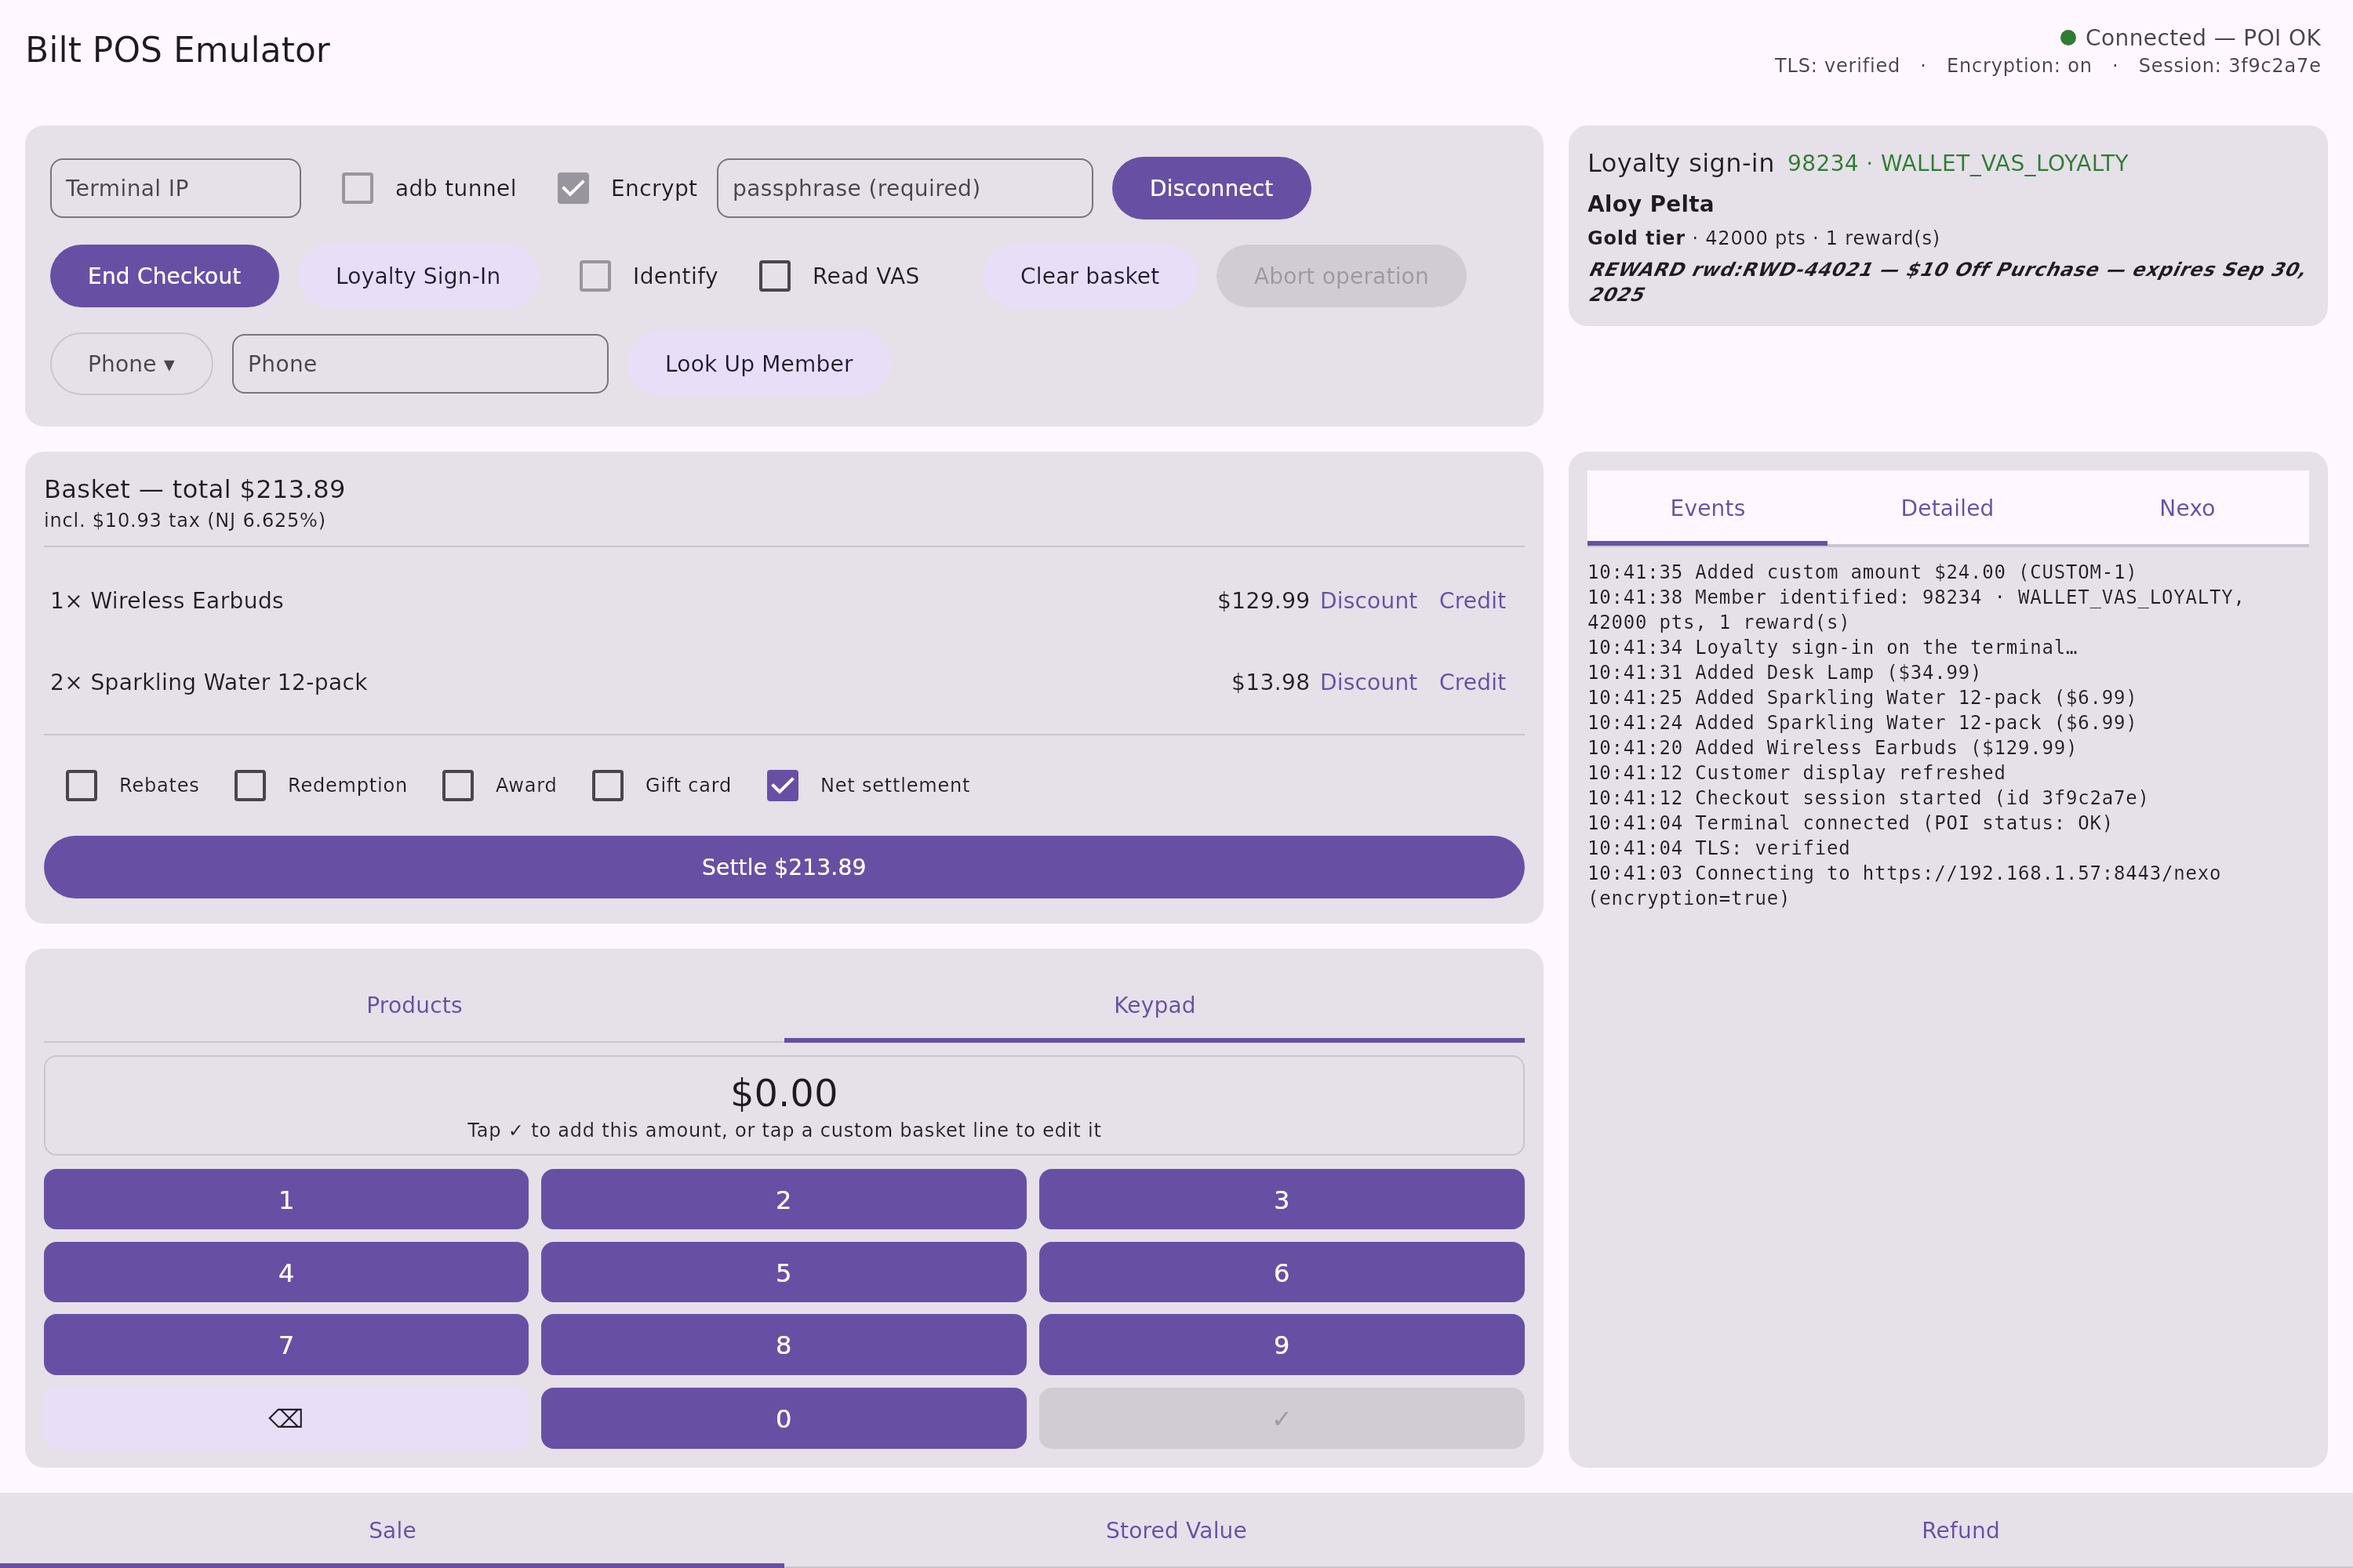
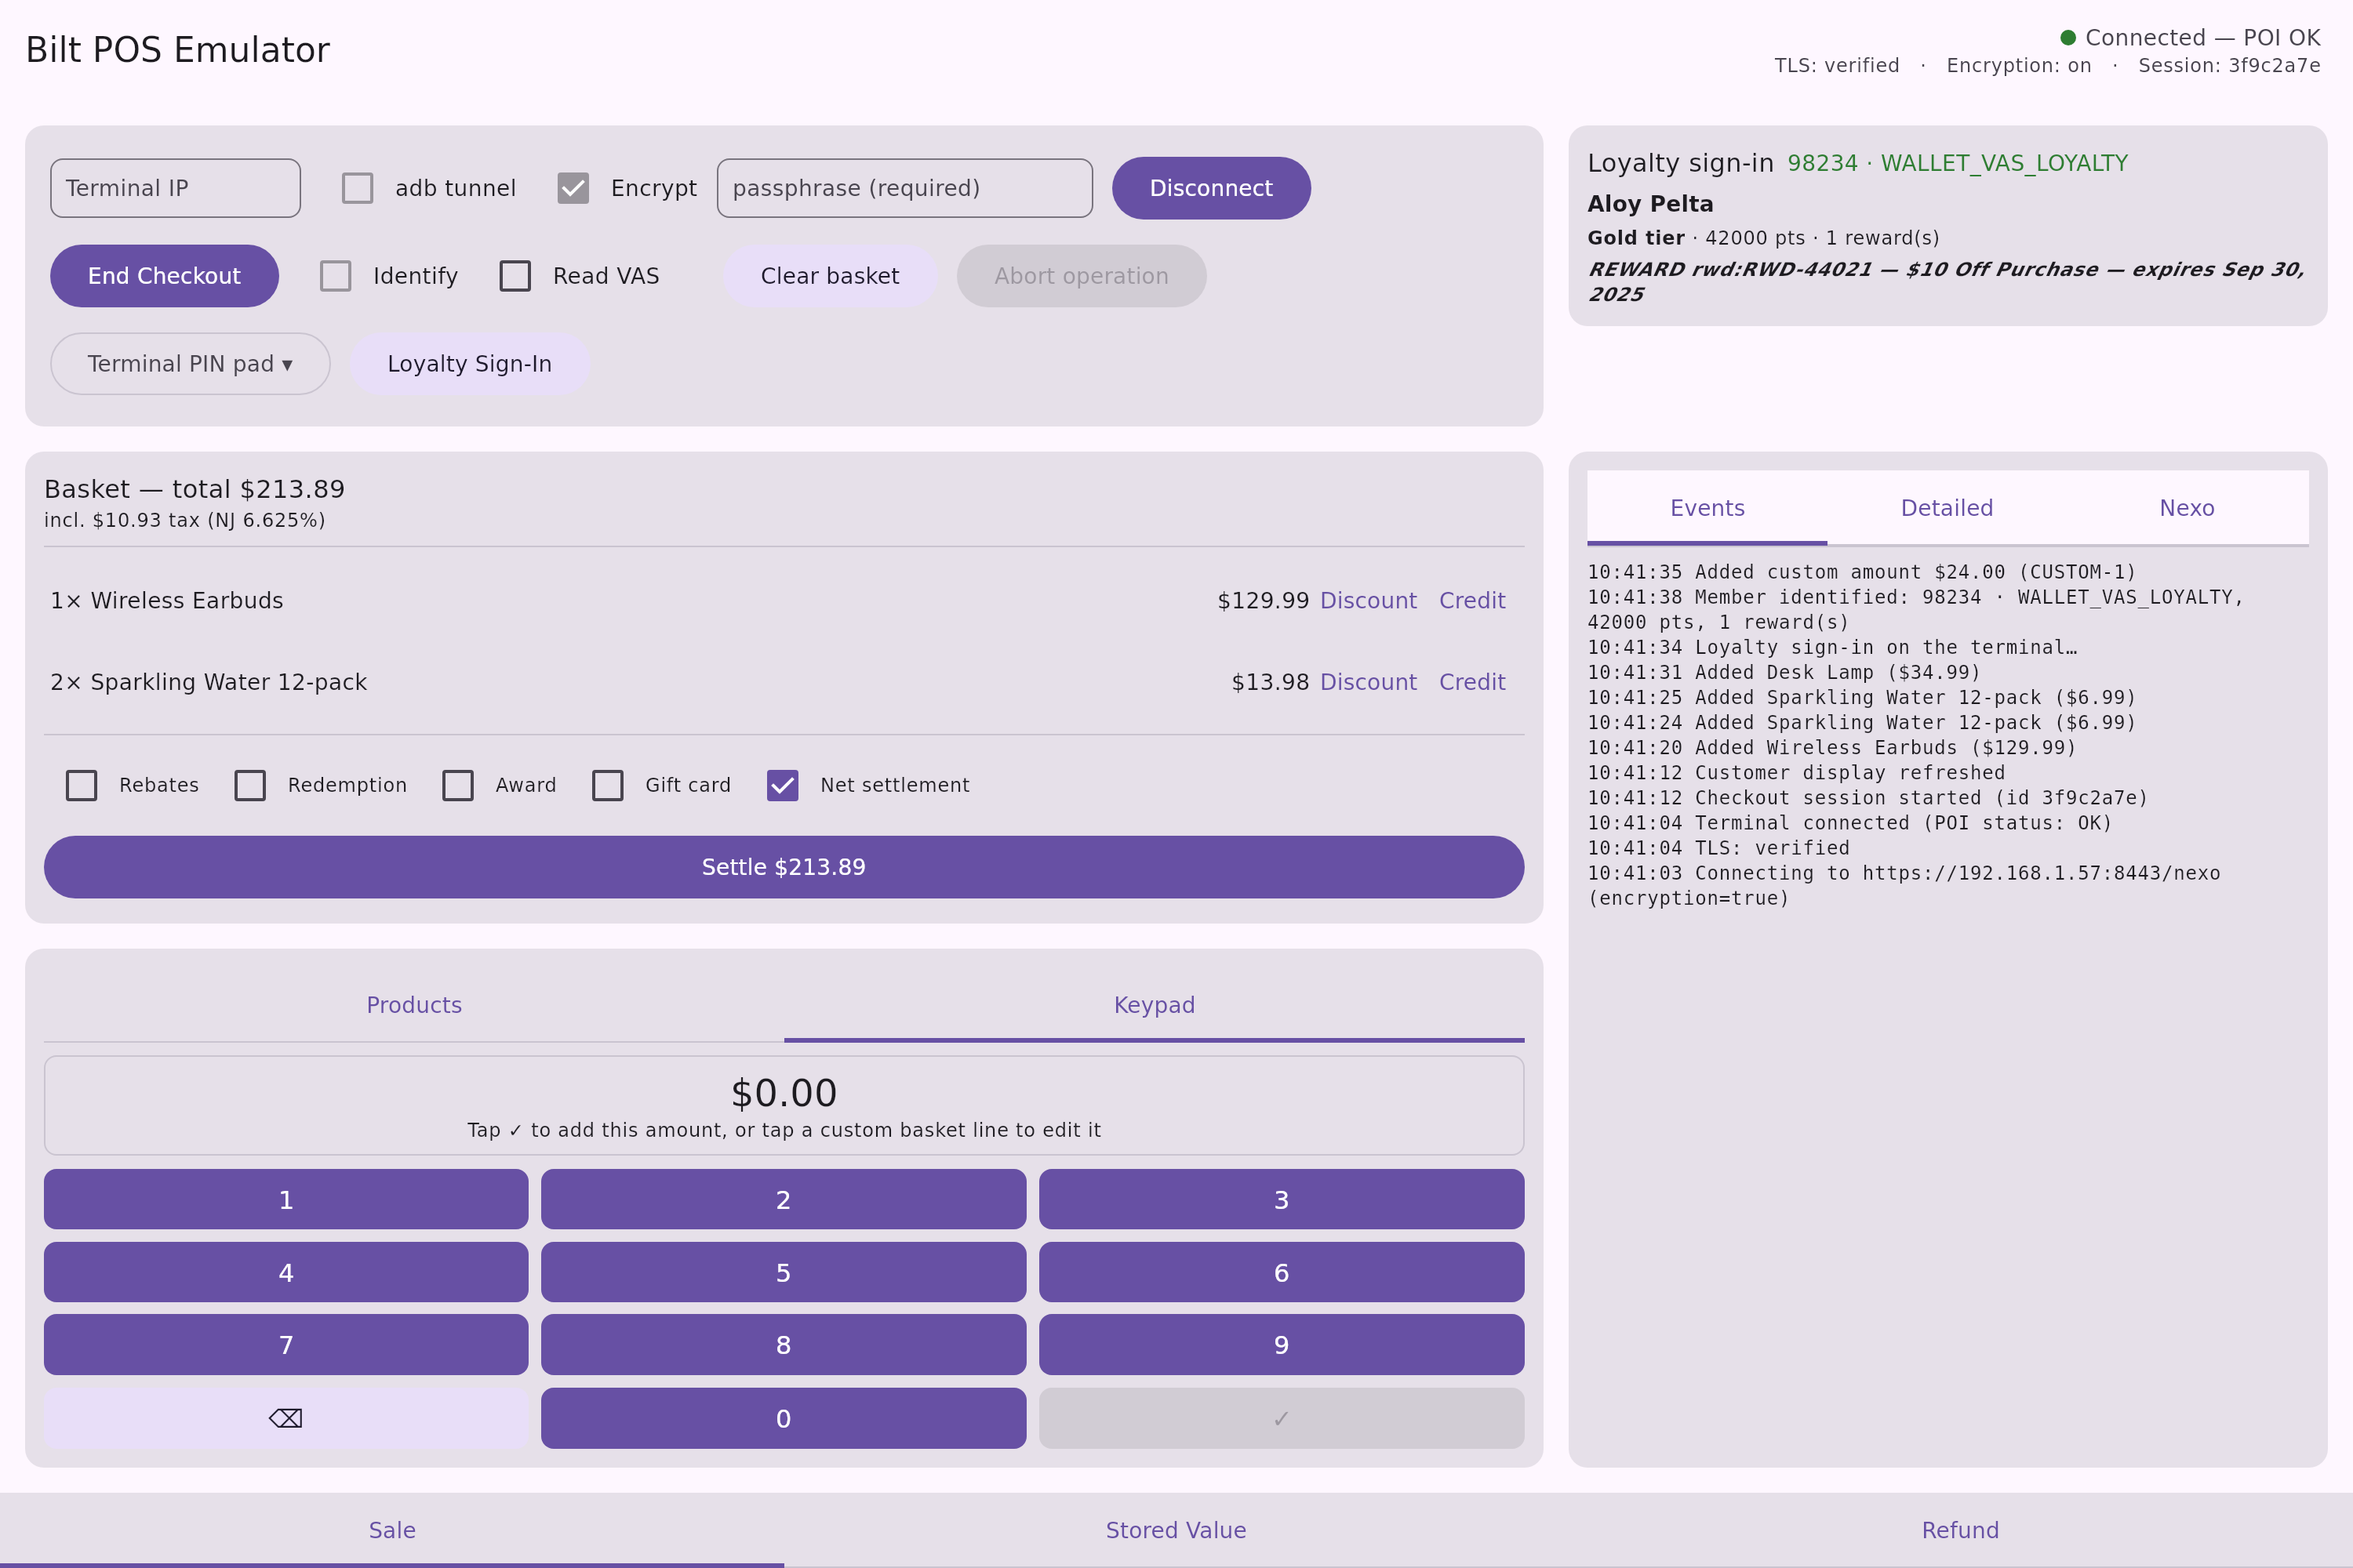
Emulator: merge Loyalty Sign-In and member lookup into one control

diff --git a/emulator/shared/src/commonMain/kotlin/com/bilt/pos/emulator/EmulatorApp.kt b/emulator/shared/src/commonMain/kotlin/com/bilt/pos/emulator/EmulatorApp.kt
@@ -116,6 +116,11 @@ internal enum class SaleTabPane(val label: String) {
  */
 private const val MAX_KEYPAD_MINOR = 99_999_999L
 
+/** The saved identify-picker name for the terminal's own sign-in prompt. */
+private const val PIN_PAD_SIGN_IN = "PIN_PAD"
+
+private const val PIN_PAD_LABEL = "Terminal PIN pad"
+
 /**
  * The keypad's entry state: the amount typed so far and, once the operator taps a custom line in
  * the basket, the SKU that amount live-edits.
@@ -766,9 +771,10 @@ private fun ConnectionPanel(
     var passphrase by remember { mutableStateOf("") }
     var identifyOnStart by rememberSaveable { mutableStateOf(false) }
     var readVas by rememberSaveable { mutableStateOf(false) }
-    // by name: an enum is not saveable on every platform
-    var lookupKindName by rememberSaveable { mutableStateOf(MemberLookupKind.PHONE.name) }
-    val lookupKind = MemberLookupKind.valueOf(lookupKindName)
+    // by name: an enum is not saveable on every platform; PIN_PAD_SIGN_IN is the
+    // terminal's own prompt, which is not a register-supplied MemberLookupKind
+    var lookupKindName by rememberSaveable { mutableStateOf(PIN_PAD_SIGN_IN) }
+    val lookupKind = MemberLookupKind.entries.firstOrNull { it.name == lookupKindName }
     var lookupValue by rememberSaveable { mutableStateOf("") }
     var lookupMenuOpen by remember { mutableStateOf(false) }
 
@@ -885,33 +891,27 @@ private fun ConnectionPanel(
                         Text(if (sessionActive) "End Checkout" else "Start Checkout")
                     }
                 }
-                // The same prompt the Identify toggle runs at Start
-                // Checkout, on demand: a customer who declined or mistyped
-                // can sign in again without restarting the checkout
-                val signInButton: @Composable (Modifier) -> Unit = { modifier ->
-                    Button(
-                        onClick = { controller.identifyMember(readVas) },
-                        enabled = state.canOperate,
-                        colors = ButtonDefaults.filledTonalButtonColors(),
-                        modifier = modifier,
-                    ) {
-                        Text(if (state.identifyInProgress) "Signing in…" else "Loyalty Sign-In")
-                    }
-                }
-                // The register supplies the identity instead of the shopper
-                // keying it on the terminal
+                // Who supplies the member: the shopper on the terminal's PIN
+                // pad, or the register (a handle to look up, or a resolved id)
                 val lookupKindPicker: @Composable () -> Unit = {
                     Box {
                         OutlinedButton(
                             onClick = { lookupMenuOpen = true },
                             enabled = state.canOperate,
                         ) {
-                            Text("${lookupKind.label} ▾")
+                            Text("${lookupKind?.label ?: PIN_PAD_LABEL} ▾")
                         }
                         DropdownMenu(
                             expanded = lookupMenuOpen,
                             onDismissRequest = { lookupMenuOpen = false },
                         ) {
+                            DropdownMenuItem(
+                                text = { Text(PIN_PAD_LABEL) },
+                                onClick = {
+                                    lookupKindName = PIN_PAD_SIGN_IN
+                                    lookupMenuOpen = false
+                                },
+                            )
                             MemberLookupKind.entries.forEach { kind ->
                                 DropdownMenuItem(
                                     text = { Text(kind.label) },
@@ -924,27 +924,40 @@ private fun ConnectionPanel(
                         }
                     }
                 }
+                // the PIN pad prompt takes no value: the shopper keys it
                 val lookupField: @Composable (Modifier) -> Unit = { modifier ->
-                    CompactTextField(
-                        value = lookupValue,
-                        onValueChange = { lookupValue = it },
-                        placeholder = lookupKind.label,
-                        enabled = state.canOperate,
-                        modifier = modifier,
-                    )
+                    if (lookupKind != null) {
+                        CompactTextField(
+                            value = lookupValue,
+                            onValueChange = { lookupValue = it },
+                            placeholder = lookupKind.label,
+                            enabled = state.canOperate,
+                            modifier = modifier,
+                        )
+                    }
                 }
+                // The PIN pad entry runs the same prompt the Identify toggle
+                // runs at Start Checkout, on demand: a customer who declined
+                // or mistyped can sign in again without restarting the checkout
                 val lookupButton: @Composable (Modifier) -> Unit = { modifier ->
                     Button(
-                        onClick = { controller.identifyMemberBy(lookupKind, lookupValue) },
+                        onClick = {
+                            if (lookupKind == null) {
+                                controller.identifyMember(readVas)
+                            } else {
+                                controller.identifyMemberBy(lookupKind, lookupValue)
+                            }
+                        },
                         enabled = state.canOperate,
                         colors = ButtonDefaults.filledTonalButtonColors(),
                         modifier = modifier,
                     ) {
                         Text(
-                            if (lookupKind == MemberLookupKind.RESOLVED_ID) {
-                                "Attach Member"
-                            } else {
-                                "Look Up Member"
+                            when {
+                                lookupKind == null && state.identifyInProgress -> "Signing in…"
+                                lookupKind == null -> "Loyalty Sign-In"
+                                lookupKind == MemberLookupKind.RESOLVED_ID -> "Attach Member"
+                                else -> "Look Up Member"
                             }
                         )
                     }
@@ -1011,13 +1024,7 @@ private fun ConnectionPanel(
                         connectButton(Modifier.fillMaxWidth())
                         identifyToggle()
                         vasToggle()
-                        Row(
-                            modifier = Modifier.fillMaxWidth(),
-                            horizontalArrangement = Arrangement.spacedBy(12.dp),
-                        ) {
-                            sessionButton(Modifier.weight(1f))
-                            signInButton(Modifier.weight(1f))
-                        }
+                        sessionButton(Modifier.fillMaxWidth())
                         Row(
                             modifier = Modifier.fillMaxWidth(),
                             horizontalArrangement = Arrangement.spacedBy(12.dp),
@@ -1068,7 +1075,6 @@ private fun ConnectionPanel(
                             itemVerticalAlignment = Alignment.CenterVertically,
                         ) {
                             sessionButton(Modifier)
-                            signInButton(Modifier)
                             identifyToggle()
                             vasToggle()
                             // a fixed gap, not weight(1f): a weighted spacer

diff --git a/CHANGELOG.md b/CHANGELOG.md
@@ -11,7 +11,7 @@ and this project adheres to [Semantic Versioning](https://semver.org/spec/v2.0.0
 
 ### Added
 
-- Emulator (desktop/Android): the register can identify the member from a value it supplies, with no terminal prompt. Pick Phone, Email, Account number, or Resolved member id, type the value, and press Look Up Member (Attach Member for a resolved id). Phone, email, and account number go through `identifyMember(Member.idResolver().lookup(..))`, a Keyed BalanceInquiry (PhoneNumber for a phone, AccountNumber otherwise), and land on the sign-in card like a sign-in. A resolved id attaches through `member(Member.id(..))`; the card updates when the terminal's background AccountNumber/File BalanceInquiry confirms it, and a decline is logged with the member left attached. Background errors are now logged with their code and message rather than as a customer-display failure.
+- Emulator (desktop/Android): Loyalty Sign-In and a new register-supplied identity share one control: a picker, a value field, and one button. Terminal PIN pad, the default, hides the field and runs the existing Loyalty Sign-In prompt (Read VAS still applies). Phone, Email, Account number, or Resolved member id identify the member from a value the register supplies, with no terminal prompt: type it and press Look Up Member (Attach Member for a resolved id). Phone, email, and account number go through `identifyMember(Member.idResolver().lookup(..))`, a Keyed BalanceInquiry (PhoneNumber for a phone, AccountNumber otherwise), and land on the sign-in card like a sign-in. A resolved id attaches through `member(Member.id(..))`; the card updates when the terminal's background AccountNumber/File BalanceInquiry confirms it, and a decline is logged with the member left attached. Background errors are now logged with their code and message rather than as a customer-display failure.
 
 ## [0.43.0]
 
